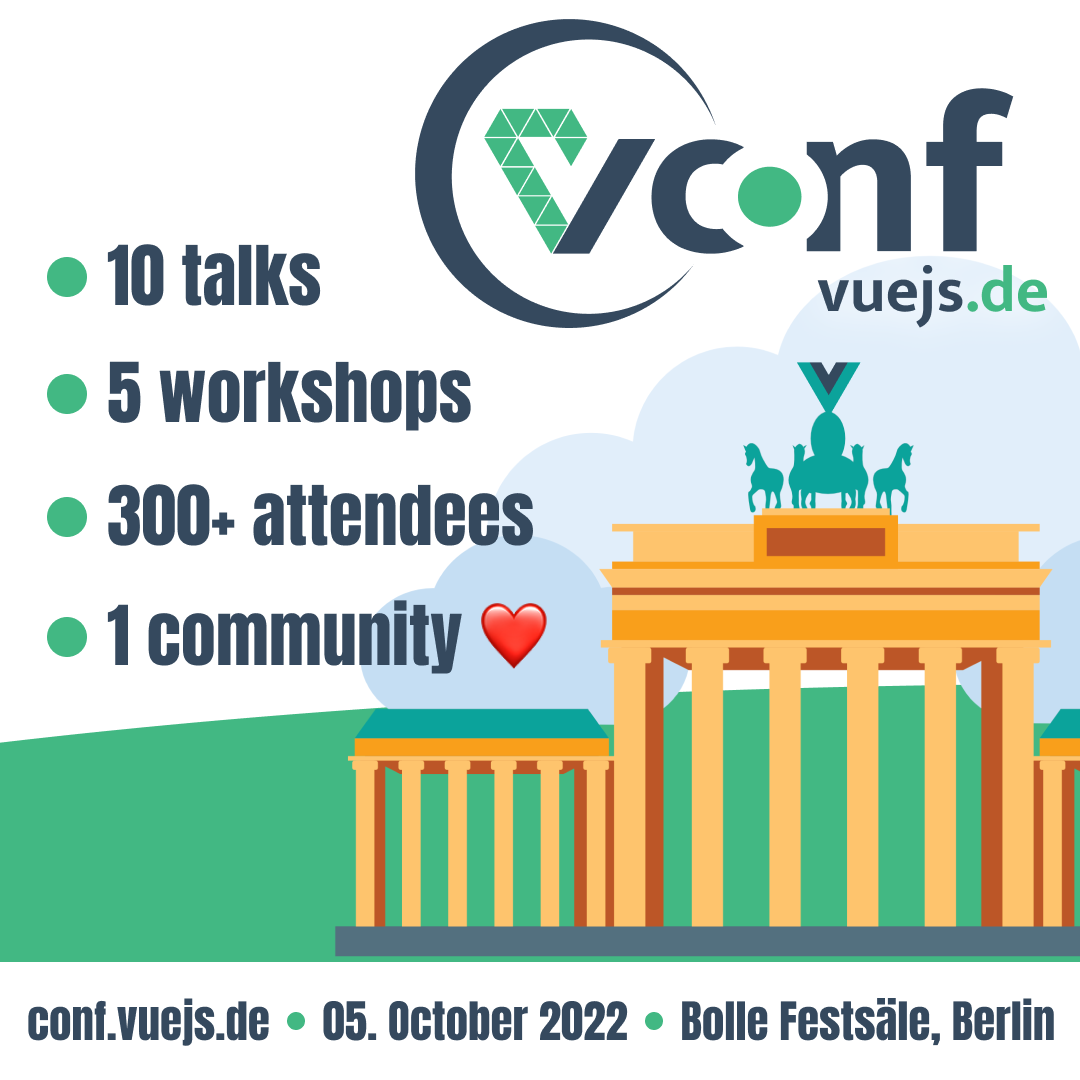
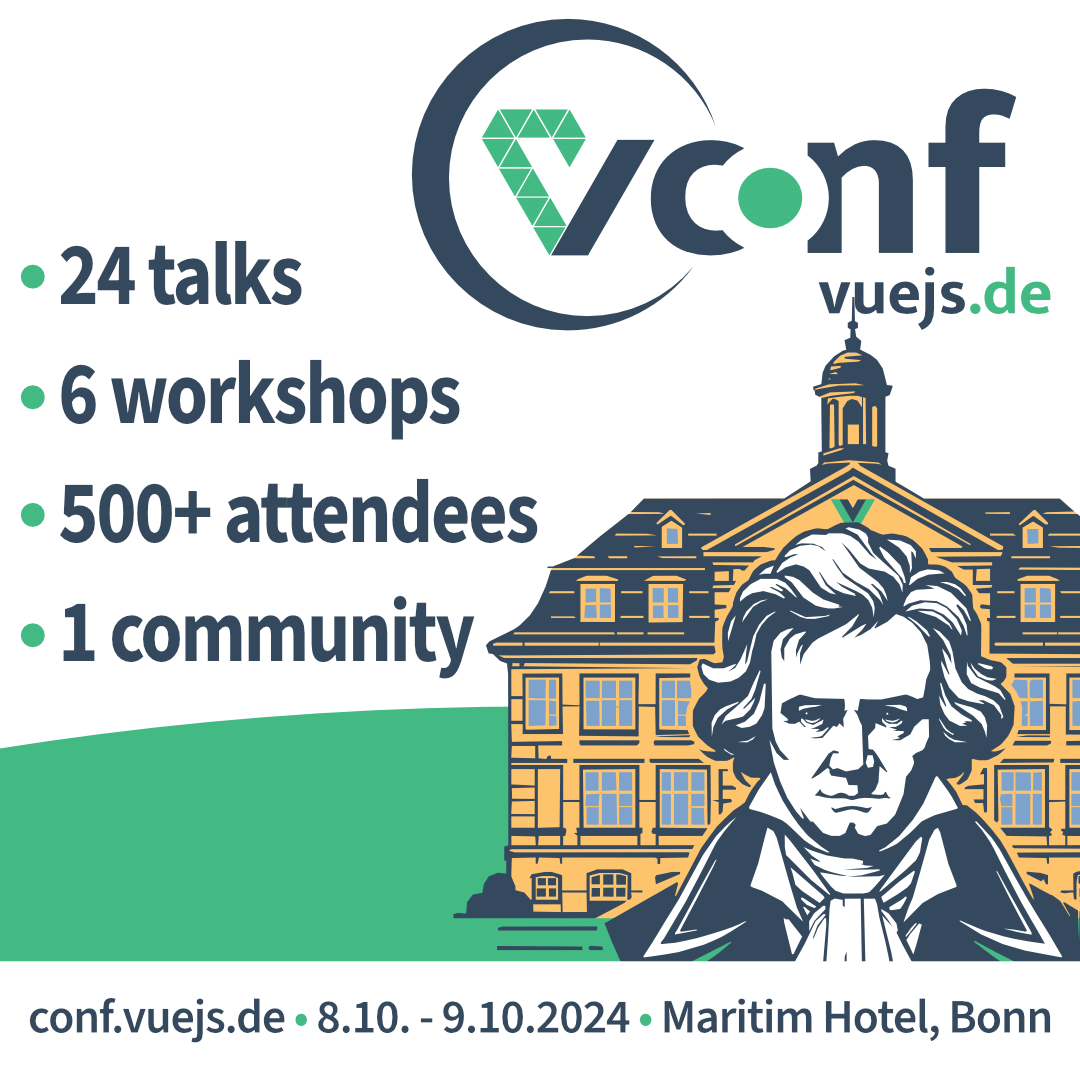
ad conf ads

diff --git a/_layouts/post.html b/_layouts/post.html
@@ -33,17 +33,17 @@ layout: base
           <hr class="my-4">
           <div>
             <div class="h5 mb-2">Email Newsletter</div>
-            <p class="small">Um alle Neuigkeiten zu erfahren, abonniere hier unseren Newsletter!</p>
+            <p class="small mb-2">Um alle Neuigkeiten zu erfahren, abonniere hier unseren Newsletter!</p>
             <a class="btn btn-sm btn-primary" href="/newsletter/redirect/article" target="_blank">
               Newsletter abonnieren
             </a>
           </div>
 
-          <!-- <div class="mt-5">
-            <a href="https://conf.vuejs.de/?utm_source=vuejs_de&utm_campaign={{ site.utm_source }}&utm_medium=portal&utm_content=article_sidebar" target="_blank">
-              <img src="/assets/img/vuejs-conf-ad.png" class="w-100" alt="Vue.js Conference am 4. Oktober 2022" width="250">
+          <div class="mt-4">
+            <a href="https://conf.vuejs.de/?utm_source=vuejs_de&utm_campaign=conference2024&utm_medium=portal&utm_content=article_sidebar" target="_blank">
+              <img src="/assets/img/vuejs-conf-ad.png" class="w-100" alt="Vue.js Conference am 8.10. - 9.10.2024" width="250">
             </a>
-          </div> -->
+          </div>
         </div>
         <div class="position-sticky c-top-4">
 

diff --git a/_includes/_navigation.html b/_includes/_navigation.html
@@ -22,7 +22,7 @@
             <a class="nav-link" href="https://workshops.de/masterclass" target="_blank">Masterclass</a>
           </li> -->
           <li class="nav-item">
-            <a class="nav-link" href="https://conf.vuejs.de" target="_blank">Konferenz</a>
+            <a class="nav-link" href="https://conf.vuejs.de?utm_source=angular_de&utm_campaign=conference2024&utm_medium=portal&utm_content=navigation" target="_blank">Konferenz</a>
           </li>
           <li class="nav-item dropdown{% if page.url contains '/ng-de-konferenz' %} active{% endif %}">
             <a class="nav-link" href="#" id="navbarCourseDropdown" data-bs-toggle="dropdown" aria-haspopup="true" aria-expanded="false">

diff --git a/_pages/home.html b/_pages/home.html
@@ -20,7 +20,7 @@ permalink: /
           <div class="mt-2 mt-md-4">
             <div class="row gy-3">
               <div class="col-12 col-md-6 col-lg-5 col-xl-4">
-                <a href="https://conf.vuejs.de/?utm_source=vuejs_de&utm_campaign={{ site.utm_source }}&utm_medium=portal&utm_content=button"
+                <a href="https://conf.vuejs.de/?utm_source=vuejs_de&utm_campaign=conference2024&utm_medium=portal&utm_content=home_hero"
                   class="btn btn-primary w-100">Jetzt mehr erfahren &rsaquo;</a>
               </div>
             </div>

diff --git a/_posts/2024-04-09-bonn-ruft-ng-de-vuejs-de-2024-suchen-speaker-call-for-paper-endet-morgen/2024-04-09-bonn-ruft-ng-de-vuejs-de-2024-suchen-speaker-call-for-paper-endet-morgen.md b/_posts/2024-04-09-bonn-ruft-ng-de-vuejs-de-2024-suchen-speaker-call-for-paper-endet-morgen/2024-04-09-bonn-ruft-ng-de-vuejs-de-2024-suchen-speaker-call-for-paper-endet-morgen.md
@@ -3,9 +3,9 @@ title: "Bonn ruft: ng-de & vuejs.de 2024 suchen Speaker – Call for Papers ende
 description: "Bonn wird im Oktober 2024 zum Hotspot für Angular- und Vue.js-Enthusiasten: Die ng-de und vuejs.de Konferenzen laden zum Austausch und Networking ein. Nutze die letzte Chance, beim Call for Papers dabei zu sein und präge mit deinem Wissen die Zukunft der Webentwicklung."
 author: "Lulëzim Ukaj"
 published_at: 2024-04-09 17:00:00
-header_source: 
+header_source:
 header_image: header.jpg
-categories: "angular vue ng-de vuejs conference call for paper"
+categories: "angular vue ng-de vuejs konferenz call-for-paper"
 ---
 
 
@@ -17,34 +17,34 @@ Vom 8. bis zum 11. Oktober 2024 verwandeln wir die Stadt Bonn, die traditionell 
 
 ## Call for Papers: Der Countdown läuft!
 
-Derzeit läuft unser Countdown für Call for Papers (CfP) für beide Konferenzen auf Hochtouren. Die ng-de und vuejs.de suchen nach Speakern, die bereit sind, ihr Wissen und ihre Leidenschaft mit der Community zu teilen. Egal, ob alte Hasen oder noch frisch hinter den Ohren in der Welt der Webentwicklung, viele von euch haben die Gelegenheit genutzt und spannende Themen eingereicht. Für alle anderen ist hier noch die letze Erinnerung: Ihr habt noch Zeit bis morgen, dem 10. April 2024 um 23:59 Uhr CET, eure Paper einzureichen und Teil des Speaker-Teams zu werden. Also seid mutig und schickt uns eure Paper!  
+Derzeit läuft unser Countdown für Call for Papers (CfP) für beide Konferenzen auf Hochtouren. Die ng-de und vuejs.de suchen nach Speakern, die bereit sind, ihr Wissen und ihre Leidenschaft mit der Community zu teilen. Egal, ob alte Hasen oder noch frisch hinter den Ohren in der Welt der Webentwicklung, viele von euch haben die Gelegenheit genutzt und spannende Themen eingereicht. Für alle anderen ist hier noch die letze Erinnerung: Ihr habt noch Zeit bis morgen, dem 10. April 2024 um 23:59 Uhr CET, eure Paper einzureichen und Teil des Speaker-Teams zu werden. Also seid mutig und schickt uns eure Paper!
 
 
 * Für die ng-de habt ihr die Möglichkeit, hier eure Paper einzureichen: [Ng-de: Call for Paper](https://ng-de.org/call-for-papers/)
 * Für die vuejs.de habt ihr die Möglichkeit, hier eure Paper einzureichen: [Vuejs.de: Call for Paper](https://conf.vuejs.de/call-for-paper/)
 
 
-## Wie sieht der Bewerbungsprozess aus?  
+## Wie sieht der Bewerbungsprozess aus?
 
 
-Wir folgen dem Prozess der jsconf.eu für die Auswahl der Vorträge. Das bedeutet, dass eure Paper zunächst anonymisiert werden, um eine unvoreingenommene Bewertung zu gewährleisten. Erst dann bewertet unsere Jury eure eingereichten Paper. Die Top-Beiträge werden anschließend de-anonymisiert, um eure Speaker-Biography mit in die endgültige Entscheidung einfließen zu lassen.  
+Wir folgen dem Prozess der jsconf.eu für die Auswahl der Vorträge. Das bedeutet, dass eure Paper zunächst anonymisiert werden, um eine unvoreingenommene Bewertung zu gewährleisten. Erst dann bewertet unsere Jury eure eingereichten Paper. Die Top-Beiträge werden anschließend de-anonymisiert, um eure Speaker-Biography mit in die endgültige Entscheidung einfließen zu lassen.
 
 
-Nach Abschluss des Bewertungsprozesses werden die Ergebnisse zusammengetragen und analysiert. Vorträge, die durchweg positive Bewertungen erhalten haben, werden für das Konferenzprogramm in Betracht gezogen. Bei Vorträgen, bei denen die Meinungen auseinandergehen, kann eine Diskussion innerhalb der Jury dazu führen, dass eine gemeinsame Entscheidung getroffen wird.  
+Nach Abschluss des Bewertungsprozesses werden die Ergebnisse zusammengetragen und analysiert. Vorträge, die durchweg positive Bewertungen erhalten haben, werden für das Konferenzprogramm in Betracht gezogen. Bei Vorträgen, bei denen die Meinungen auseinandergehen, kann eine Diskussion innerhalb der Jury dazu führen, dass eine gemeinsame Entscheidung getroffen wird.
 
 
-Dieser Prozess zielt darauf ab, eine ausgewogene und vielfältige Auswahl an Vorträgen für die Konferenz zu gewährleisten. Dabei spielen Faktoren wie Aktualität des Themas, Innovationsgrad, praktischer Nutzen für die Teilnehmenden und die Fähigkeit, komplexe Inhalte verständlich zu vermitteln, eine entscheidende Rolle.  
+Dieser Prozess zielt darauf ab, eine ausgewogene und vielfältige Auswahl an Vorträgen für die Konferenz zu gewährleisten. Dabei spielen Faktoren wie Aktualität des Themas, Innovationsgrad, praktischer Nutzen für die Teilnehmenden und die Fähigkeit, komplexe Inhalte verständlich zu vermitteln, eine entscheidende Rolle.
 
 
 Abschließend wird bei der endgültigen Auswahl der Vorträge auch darauf geachtet, dass eine Vielfalt an Perspektiven und Hintergründen vertreten ist. Dies soll nicht nur die Qualität des Konferenzprogramms steigern, sondern auch die Inklusivität und Breite der Developer-Community widerspiegeln.
 
 ## Tipps für eine erfolgreiche Einreichung: Wonach suchen wir?
 
-Damit dein Beitrag beim Call for Papers der ng-de und vuejs.de Konferenzen erfolgreich ist, sollte er am besten folgende Merkmale haben:  
+Damit dein Beitrag beim Call for Papers der ng-de und vuejs.de Konferenzen erfolgreich ist, sollte er am besten folgende Merkmale haben:
 
 
-- **Klarer und ansprechender Vortragstitel**: Dein Titel sollte informativ und gleichzeitig auch Neugier beim Publikum wecken. Vermeide daher immer generische Titel. Es ist am besten, dein Thema präzise und locker zusammenzufassen. Wenn es dir möglich ist, beziehe die Kernbotschaft deines Vortrags mit im Titel ein.  
-- **Detaillierte und überzeugende Beschreibung**: Deine Beschreibung des Vortrags ist entscheidend. Sie sollte nicht nur das Was und Warum der Vortragsthemen erklären, sondern auch aufzeigen, welchen Nutzen deine Zuhörer aus dem Ganzen ziehen können. Es ist wichtig, den Inhalt so detailliert wie möglich zu beschreiben: Was werden die Zuhörer lernen? Wie können sie das Gelernte in ihrer eigenen Arbeit anwenden?  
+- **Klarer und ansprechender Vortragstitel**: Dein Titel sollte informativ und gleichzeitig auch Neugier beim Publikum wecken. Vermeide daher immer generische Titel. Es ist am besten, dein Thema präzise und locker zusammenzufassen. Wenn es dir möglich ist, beziehe die Kernbotschaft deines Vortrags mit im Titel ein.
+- **Detaillierte und überzeugende Beschreibung**: Deine Beschreibung des Vortrags ist entscheidend. Sie sollte nicht nur das Was und Warum der Vortragsthemen erklären, sondern auch aufzeigen, welchen Nutzen deine Zuhörer aus dem Ganzen ziehen können. Es ist wichtig, den Inhalt so detailliert wie möglich zu beschreiben: Was werden die Zuhörer lernen? Wie können sie das Gelernte in ihrer eigenen Arbeit anwenden?
 - **Wer ist deine Zielgruppe?**: Mache dir Gedanken, wer dein Publikum ist. Die ng-de und vuejs.de Konferenzen haben ein Publikum mit vielen Interessen. Manche davon sind Einsteiger, andere Experten. Sei dir im Klaren darüber, für wen dein Vortrag gedacht ist und vor allem, warum er relevant ist. Eine gut definierte Zielgruppe hilft der Jury bei der Entscheidungsfindung.
 
 **Weitere Tipps zur Verbesserung deiner Chancen:**
@@ -55,7 +55,7 @@ Damit dein Beitrag beim Call for Papers der ng-de und vuejs.de Konferenzen erfol
 
 ## Gratuliere, dein Vortrag wurde ausgewählt!
 
-In diesem Fall übernehmen wir deine Reise- und Unterkunftskosten (für zwei Nächte) und natürlich auch das Konferenzticket. Zudem werden wir deinen Vortrag (video-)aufzeichnen und auf unserer Website und auf dem YouTube-Kanal der ng-de sowie der Vue.js veröffentlichen und über die sozialen Medien bewerben.  
+In diesem Fall übernehmen wir deine Reise- und Unterkunftskosten (für zwei Nächte) und natürlich auch das Konferenzticket. Zudem werden wir deinen Vortrag (video-)aufzeichnen und auf unserer Website und auf dem YouTube-Kanal der ng-de sowie der Vue.js veröffentlichen und über die sozialen Medien bewerben.
 
 
 Dein Vortrag darf maximal 30 Minuten lang sein. Es ist keine weitere Zeit für eine Frage- und Antwort-Runde vorgesehen. Du kannst ein Q&A aber innerhalb deines 30-minütigen Zeitfensters integrieren, sofern du es wünschst. Wichtig ist, dass alle Vorträge auf Englisch gehalten werden müssen.
@@ -76,14 +76,14 @@ Die ng-de und vuejs.de Konferenzen spielen eine wichtige Rolle in der deutschen 
 - **Die Zukunft mitgestalten**: Unsere Vorträge und Feedback-Sessions haben großen Einfluss auf die Ausrichtung der Frameworks. Unsere Community gestaltet die Technologien aktiv mit. Werde aktiver Teil der Zukunft!
 
 ## Ran an die Tasten – Deine Chance auf der ng-de und vuejs.de
-Hast du eine bahnbrechende Idee, ein spannendes Projekt oder einfach nur ein paar coole Tipps und Tricks, die du mit Gleichgesinnten teilen möchtest? Egal, ob du auf der Bühne stehen willst oder lieber im Hintergrund zuhören willst – Wir freuen uns auf dich. Die ng-de und vuejs.de sind in erster Linie ein Community-Fest. Nutze die Gelegenheit, dabei zu sein. Wir können es kaum erwarten, dich im Oktober in Bonn willkommen zu heißen.  
+Hast du eine bahnbrechende Idee, ein spannendes Projekt oder einfach nur ein paar coole Tipps und Tricks, die du mit Gleichgesinnten teilen möchtest? Egal, ob du auf der Bühne stehen willst oder lieber im Hintergrund zuhören willst – Wir freuen uns auf dich. Die ng-de und vuejs.de sind in erster Linie ein Community-Fest. Nutze die Gelegenheit, dabei zu sein. Wir können es kaum erwarten, dich im Oktober in Bonn willkommen zu heißen.
 
 
 Falls du Fragen hast oder mehr Infos brauchst, schreib uns einfach an info@ng-de.org. Lass uns zusammen die Webentwicklung rocken!
 
 ## Dabei sein ist alles – Dein Platz in der Community
 
-Auch wenn der Call for Papers für die ng-de und vuejs.de Konferenzen 2024 fast vorbei ist, endet damit nicht deine Gelegenheit, aktiver Teil der Community zu werden. Eine Konferenz endet nicht mit dem letzten Konferenztag. Über das ganze Jahr hinweg gibt es zahlreiche Möglichkeiten, sich einzubringen: sei es durch [Meetups](https://www.meetup.com/de-DE/angular-meetup-berlin/), [Workshops](https://workshops.de/schulungsthemen/vuejs?_gl=1*hzplxl*_up*MQ..*_ga*MTM1OTE3NDc4Ni4xNzEyNjY3Mzk4*_ga_E0Z1EPK01Y*MTcxMjY2NzM5Ny4xLjAuMTcxMjY2NzM5Ny4wLjAuOTgxMzYwMjAy) oder in unserer [Community auf Discord](https://workshops.de/join-discord).  
+Auch wenn der Call for Papers für die ng-de und vuejs.de Konferenzen 2024 fast vorbei ist, endet damit nicht deine Gelegenheit, aktiver Teil der Community zu werden. Eine Konferenz endet nicht mit dem letzten Konferenztag. Über das ganze Jahr hinweg gibt es zahlreiche Möglichkeiten, sich einzubringen: sei es durch [Meetups](https://www.meetup.com/de-DE/angular-meetup-berlin/), [Workshops](https://workshops.de/schulungsthemen/vuejs?_gl=1*hzplxl*_up*MQ..*_ga*MTM1OTE3NDc4Ni4xNzEyNjY3Mzk4*_ga_E0Z1EPK01Y*MTcxMjY2NzM5Ny4xLjAuMTcxMjY2NzM5Ny4wLjAuOTgxMzYwMjAy) oder in unserer [Community auf Discord](https://workshops.de/join-discord).
 
 
 Teile dein Wissen, deine Fragen und deine Projekte mit uns. Gemeinsam können wir nicht nur die Angular- und Vue.js-Landschaft in Deutschland, sondern auch die globale Webentwickler-Community bereichern und voranbringen. Bleib dran für kommende Events und Initiativen – es gibt immer eine Möglichkeit, sich einzubringen und zu engagieren.
